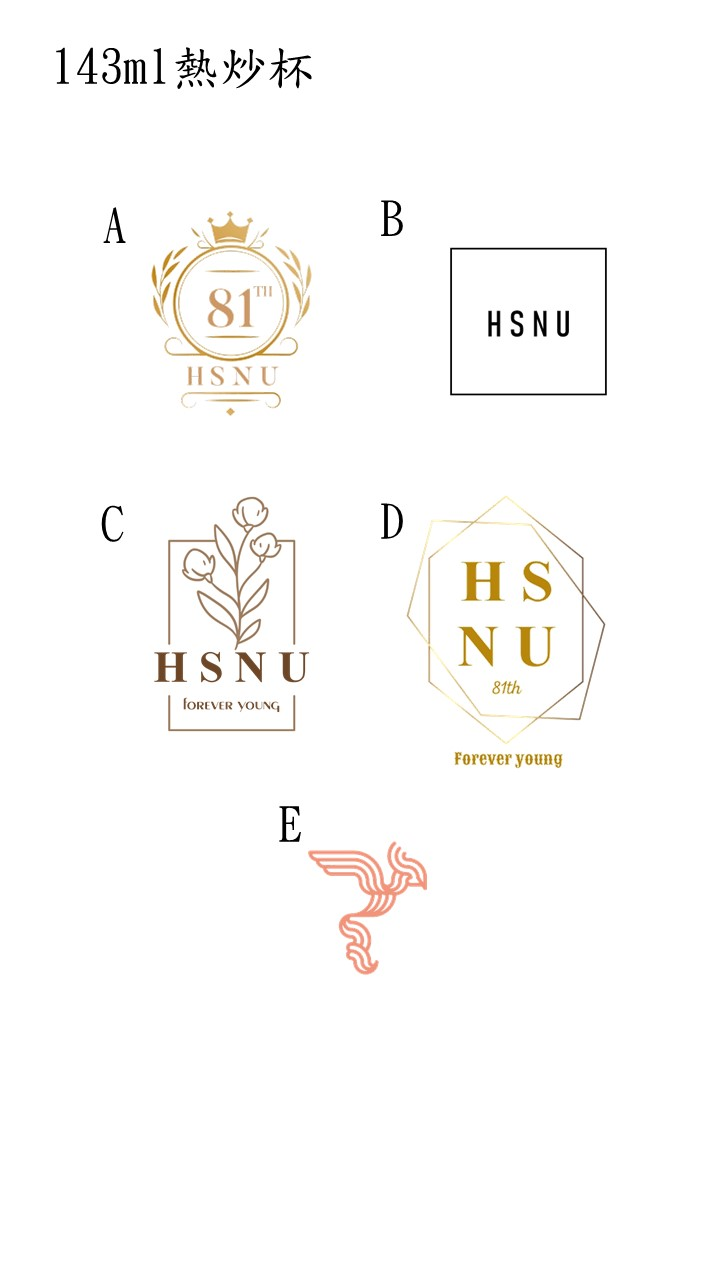
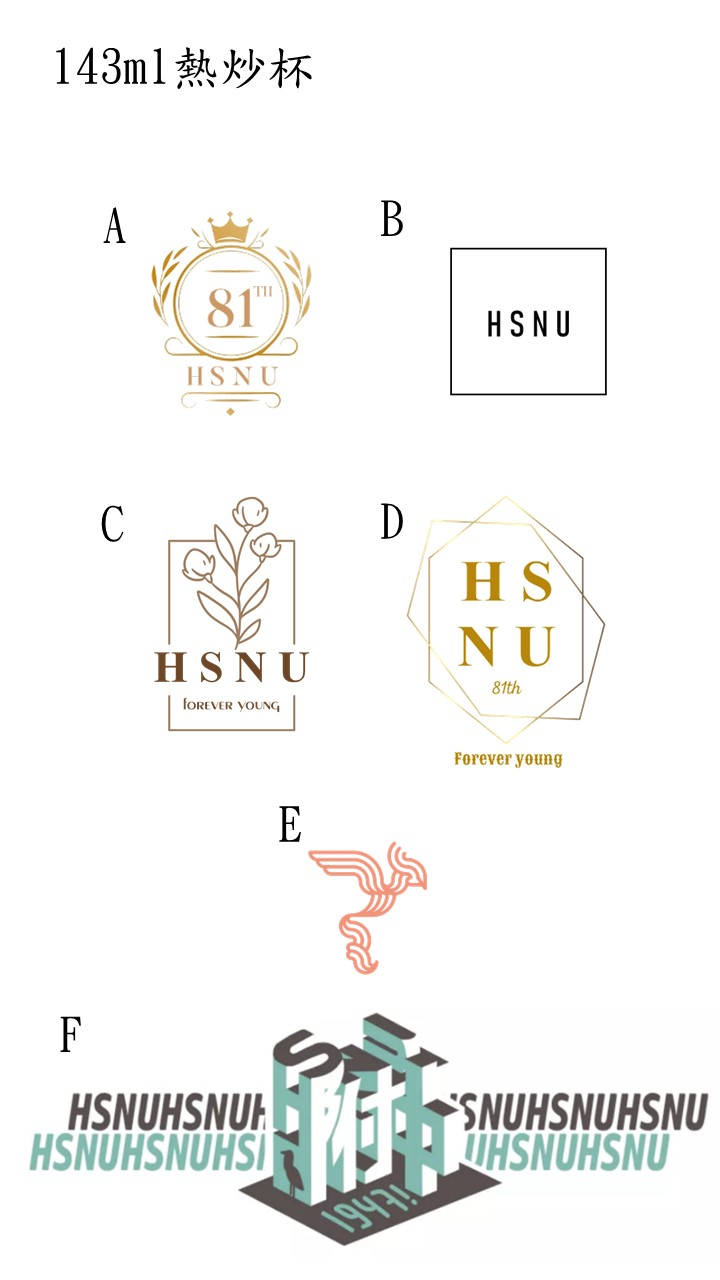
New data

Changed region(s): [[0.0306, 0.7812, 1.0, 0.9688], [0.0917, 0.7812, 0.1222, 0.8125]]

diff --git a/app/data.py b/app/data.py
@@ -1,10 +1,3 @@
 pages = [
-    ["A", "B", "C", "D", "E"],
-    ["A", "B", "C", "D", "E", "F", "G", "H", "I", "J"],
-    ["A", "B"],
-    ["A", "B", "C", "D", "E", "F", "G"],
-    ["A", "B", "C", "D", "E", "F", "G", "H", "I", "J", "K", "L", "M", "N", "O"],
-    ["A", "B", "C", "D", "E", "F", "G", "H", "I", "J", "K", "L"],
-    ["A", "B", "C", "D", "E", "F", "G", "H", "I", "J", "K", "L", "M", "N"],
-    ["A", "B", "C", "D", "E", "F", "G", "H", "I", "J", "K", "L", "M", "N", "O", "P", "Q", "R", "S", "T", "U"],
+    ["A", "B", "C", "D", "E", "F"],
 ]

diff --git a/app/main/routes.py b/app/main/routes.py
@@ -54,7 +54,7 @@ def vote_page(page=1):
     log(request)
     form = VoteForm()
     form.choices.choices = pages[page - 1]
-    if page < 1 or page > 8:
+    if page != 1:
         abort(404)
     if request.method == "GET":
         return render_template(
